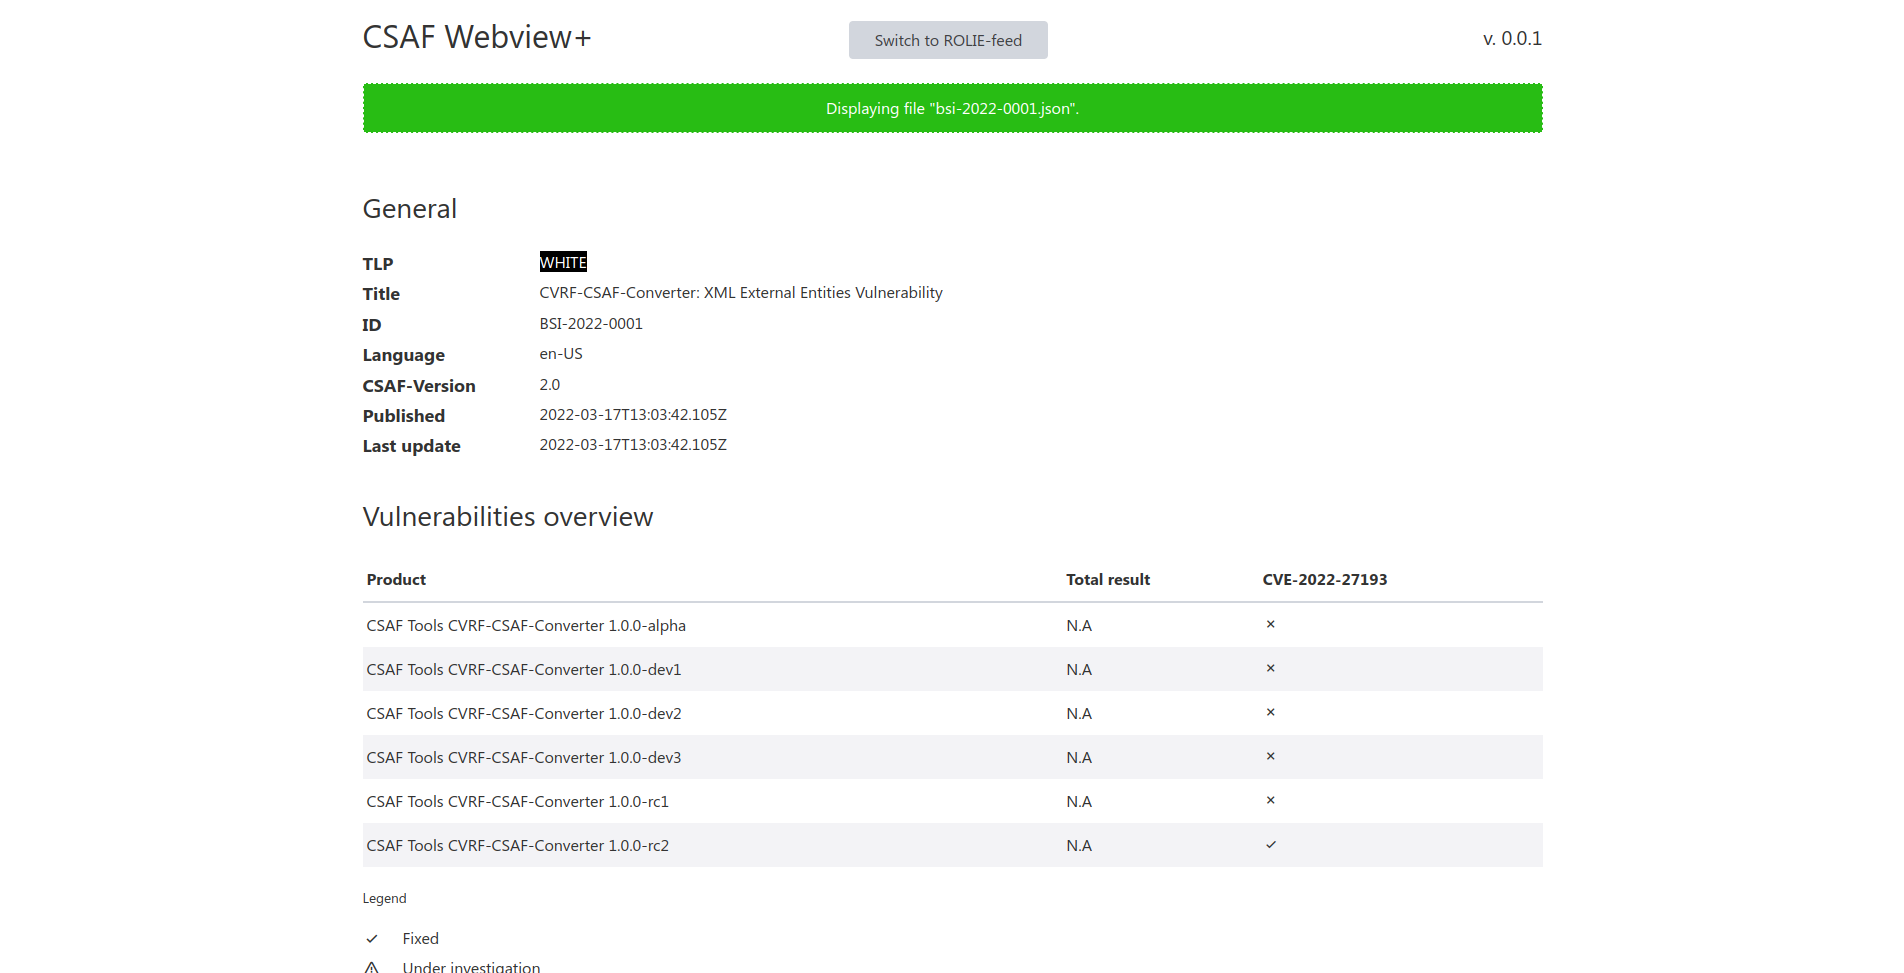
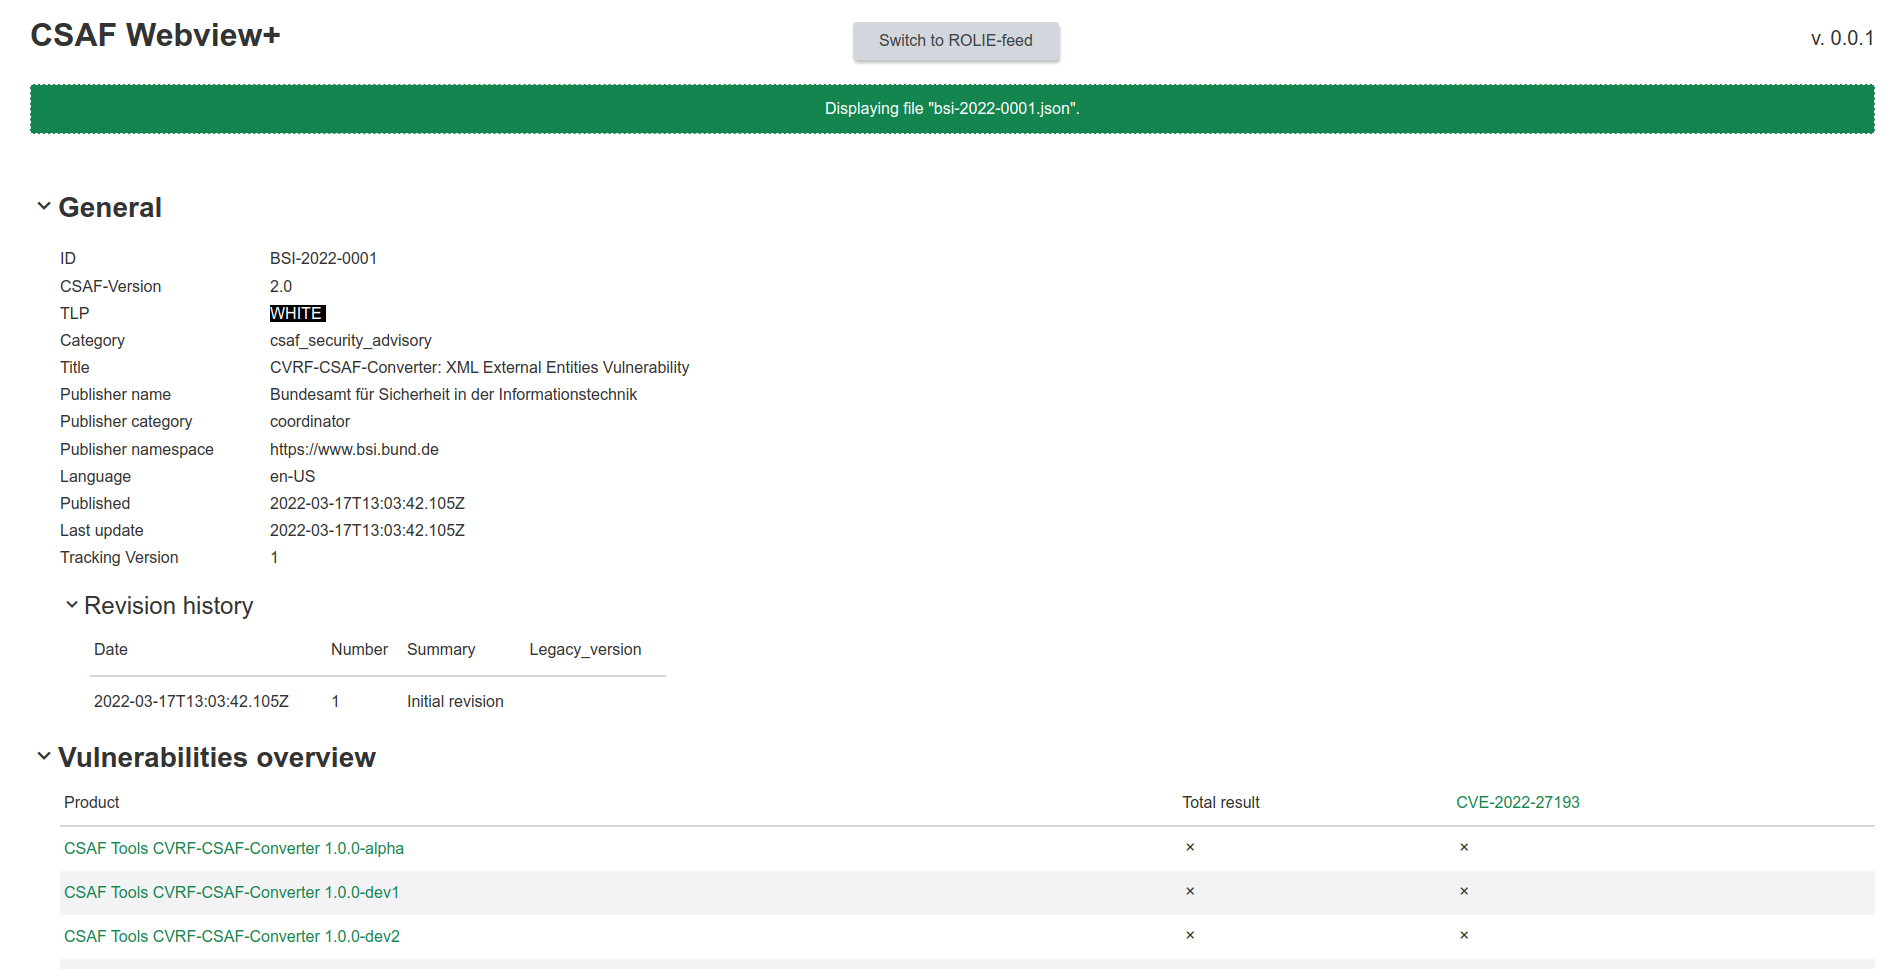
style: layout refinements

diff --git a/src/lib/singleview/general/General.svelte b/src/lib/singleview/general/General.svelte
@@ -71,29 +71,39 @@
 
 {#if $appStore.doc?.isRevisionHistoryPresent}
   <Collapsible header="Revision history" level="3" open={$appStore.ui.isRevisionHistoryVisible}>
-    <table class="striped">
-      <thead>
-        <tr
-          ><th>Date</th>
-          <th>Number</th>
-          <th>Summary</th>
-          <th>Legacy_version</th>
-        </tr>
-      </thead>
-      <tbody>
-        {#each $appStore.doc?.revisionHistory as entry}
-          <tr>
-            <td>{entry.date}</td><td>{entry.number}</td><td>{entry.summary}</td><td
-              >{#if entry.legacyVersion}{entry.legacyVersion}{/if}</td
-            >
+    <div class="revisionhistory">
+      <table class="striped">
+        <thead>
+          <tr
+            ><th>Date</th>
+            <th>Number</th>
+            <th>Summary</th>
+            <th>Legacy_version</th>
           </tr>
-        {/each}
-      </tbody>
-    </table>
+        </thead>
+        <tbody>
+          {#each $appStore.doc?.revisionHistory as entry}
+            <tr>
+              <td>{entry.date}</td><td>{entry.number}</td><td>{entry.summary}</td><td
+                >{#if entry.legacyVersion}{entry.legacyVersion}{/if}</td
+              >
+            </tr>
+          {/each}
+        </tbody>
+      </table>
+    </div>
   </Collapsible>
 {/if}
 
 <style>
+  .documentdata {
+    width: 60vw;
+    min-width: 80rem;
+  }
+  .revisionhistory {
+    width: 30vw;
+    min-width: 50rem;
+  }
   dt {
     float: left;
     clear: left;

diff --git a/src/app.html b/src/app.html
@@ -18,4 +18,9 @@
   <body data-sveltekit-preload-data="hover">
     <div style="display: contents">%sveltekit.body%</div>
   </body>
+  <style>
+    body {
+      font-family: Helvetica;
+    }
+  </style>
 </html>

diff --git a/src/routes/+page.svelte b/src/routes/+page.svelte
@@ -55,6 +55,12 @@
 </div>
 
 <style>
+  .switchbutton {
+    box-shadow: 1px 3px 3px #c1c1c1;
+  }
+  .header > h1 {
+    font-weight: bold;
+  }
   .content {
     margin-left: 3rem;
     margin-right: 3rem;

diff --git a/src/lib/singleview/vulnerabilities/Vulnerability.svelte b/src/lib/singleview/vulnerabilities/Vulnerability.svelte
@@ -85,9 +85,9 @@
     float: left;
     clear: left;
     font-weight: 100;
+    width: 21rem;
   }
   dd {
     margin-bottom: 0.1em;
-    margin-left: 12%;
   }
 </style>

diff --git a/src/lib/Collapsible.svelte b/src/lib/Collapsible.svelte
@@ -62,4 +62,7 @@
   h4 {
     margin-bottom: 0;
   }
+  h2 {
+    font-weight: bold;
+  }
 </style>
